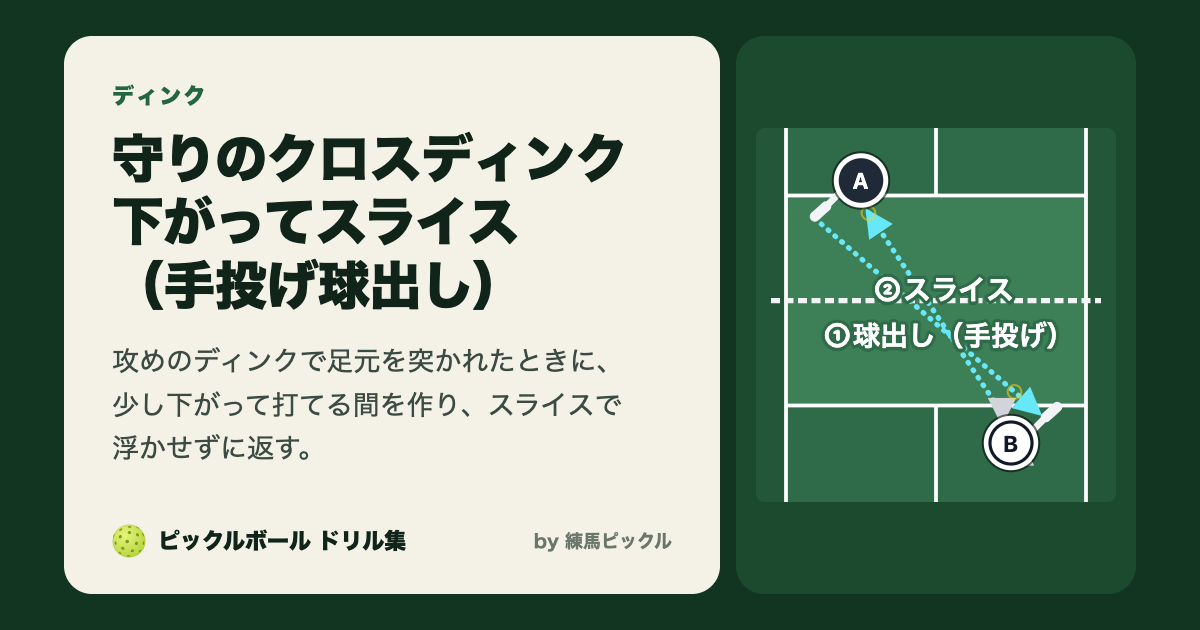
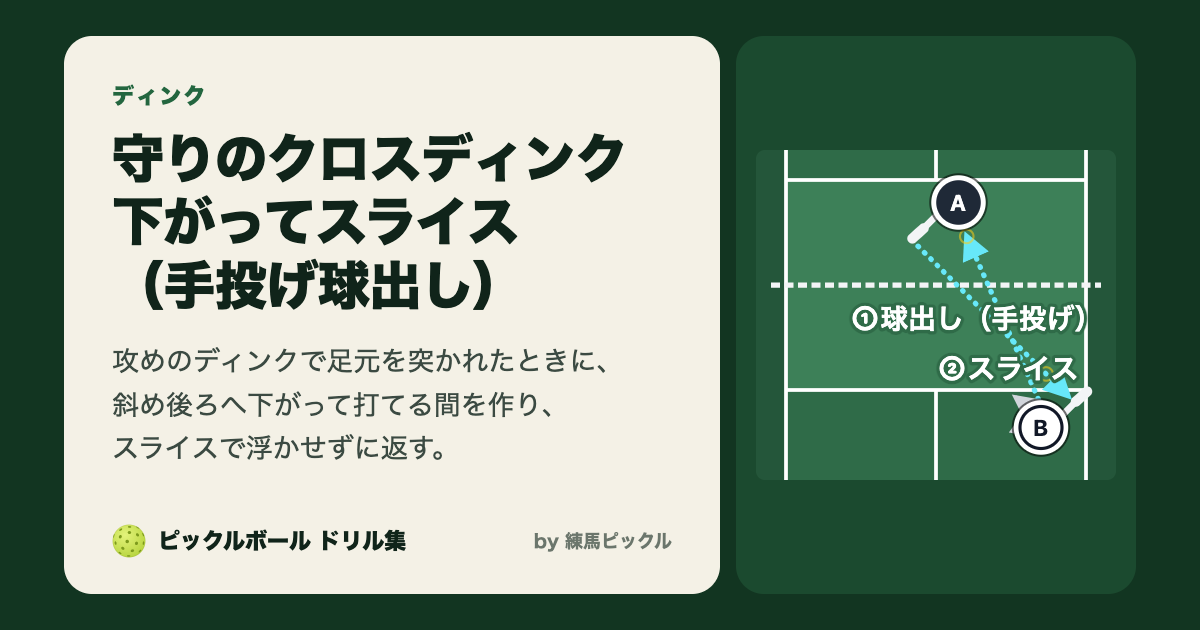
dnk009: feeder inside the kitchen near the centre of the same half throws a sharp overhand arc; B retreats diagonally
Claude-Session: https://claude.ai/code/session_013HpVCq95JLREtWQF64J4S6

Changed region(s): [[0.6475, 0.181, 0.925, 0.8143], [0.0925, 0.6032, 0.5242, 0.6635], [0.0925, 0.6937, 0.37, 0.754]]

diff --git a/src/content/docs/drills/dnk/dnk009.md b/src/content/docs/drills/dnk/dnk009.md
@@ -1,6 +1,6 @@
 ---
 title: 守りのクロスディンク 下がってスライス（手投げ球出し）
-description: 足元へ強めに投げた球に、少し下がってスライスのディンクで柔らかく返す
+description: 攻めのディンクのように鋭く投げた球に、斜め後ろへ下がってスライスのディンクで柔らかく返す
 sidebar:
   order: 9
 drill:
@@ -8,13 +8,13 @@ drill:
   category: dnk
   scene: 4人ともキッチンラインに並び、ディンクの打ち合いになっている。どちらかが浮いた球を出すと、相手に攻められる。
   purpose: ネットの低いところを通して相手のキッチンに落とし続け、相手が打てる高さの球を渡さない。相手が先に浮かせるまで待ち、浮いた球をこちらから攻める。
-  focus: 攻めのディンクで足元を突かれたときに、少し下がって打てる間を作り、スライスで浮かせずに返す。
-  setup: 2人1組でクロス（対角）に入り、2人ともキッチンライン付近に立つ。1面で2組同時にできる。
-  feed: 球出し役は手で、練習役の足元へ強めにクロスの球を投げる。
+  focus: 攻めのディンクで足元を突かれたときに、斜め後ろへ下がって打てる間を作り、スライスで浮かせずに返す。
+  setup: 2人1組で、コートの縦半分（半面）で向かい合う。練習役はキッチンライン付近に立つ。球出し役は相手側のキッチンの中に入り、センターライン寄りに立つ。1面で2組同時にできる。
+  feed: 球出し役はキッチンの中から、上から投げ下ろすように、練習役の足元へ球を投げる。スマッシュやボレーのような強い球ではなく、攻めのディンクのように鋭い弧を描く球にする。
   steps:
-    - 練習役はキッチンライン付近で構えて待つ
-    - 球出し役が投げたら、少し後ろへ下がって打つ間を作る
-    - スライスのディンクで、球出し役のキッチンへ柔らかくクロスに返す
+    - 練習役はキッチンライン付近の基本の位置で構えて待つ
+    - 球出し役が投げたら、斜め後ろへ下がって打つ間を作る
+    - スライスのディンクで、球出し役のキッチンへ柔らかく返す
     - 返したらキッチンラインへ戻る
     - 一定時間で球出し役と練習役を交代する
   points:
@@ -23,12 +23,13 @@ drill:
     - 返したらすぐキッチンラインへ戻る
   diagram:
     players:
-      - { id: A, at: far-left-kitchen, role: feed }
+      - { id: A, at: far-rightCenter-inKitchen, role: feed }
       - { id: B, at: near-right-kitchen, role: practice }
     shots:
-      - { from: A, to: B, type: dink, feed: true, n: 1, bounce: front, label: 球出し（手投げ） }
-      - { from: B, to: near-right-kitchenBack, type: move, n: 1 }
-      - { from: [15, 31.5], to: A.front, type: dink, n: 2, label: スライス }
+      # 球出し役はキッチンの中から上から投げ下ろす（頭の高さから、攻めのディンクのような鋭い弧）
+      - { from: A, to: B, type: dink, feed: true, n: 1, bounce: front, hit: head, peak: aboveTape, label: 球出し（手投げ） }
+      - { from: B, to: near-rightOuter-kitchenBack, type: move, n: 1 }
+      - { from: [17, 31.5], to: A.front, type: dink, n: 2, label: スライス }
       - { from: B, to: near-right-kitchen, type: move, n: 2 }
   builderDefault:
     min: 2
